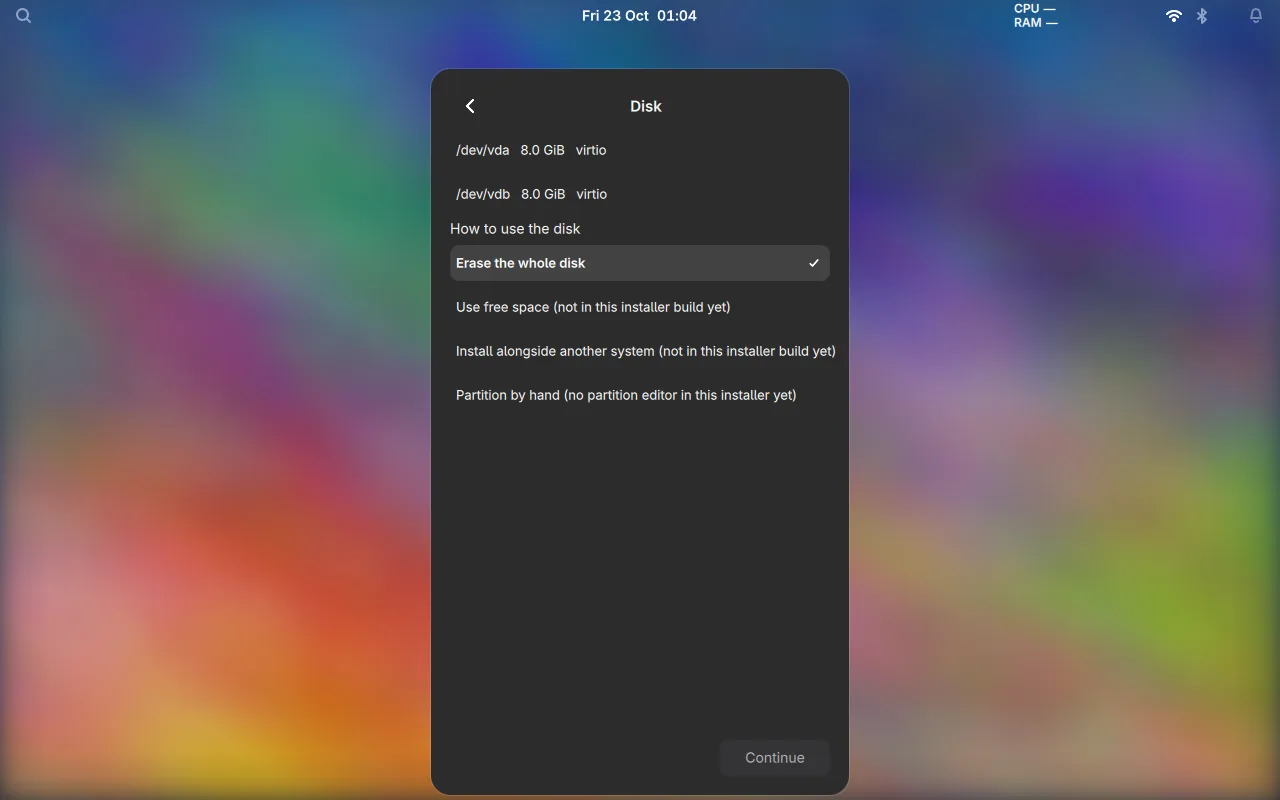
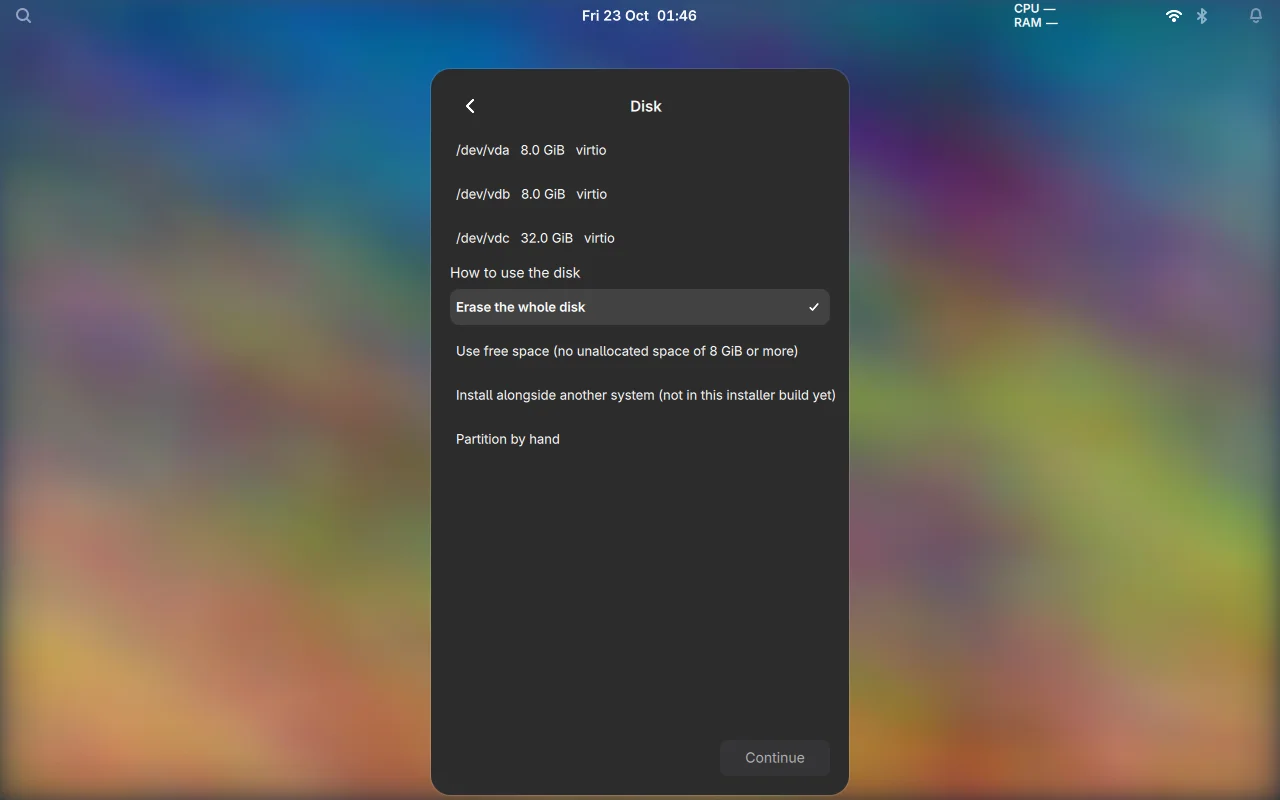
docs: document manual partitioning in the installer
Describe the Partitions page, the Partition by hand disk choice, swap from
the manual list, and the summary's Erase, Format and Install buttons. Refresh
the disk screenshot and add the partitions screenshot from the shots harness.

diff --git a/docs/installer.md b/docs/installer.md
@@ -13,6 +13,7 @@ disk and account values are placeholders.
 - Boot the ISO in UEFI mode. BIOS machines can install too, with the limits
   listed under [firmware](#firmware).
 - Back up anything on the target disk. An erase destroys every partition on it.
+  In manual mode only the partitions marked format are erased.
 - The installed system is copied from the ISO, so the install itself does not
   need a network. A connection enables time sync and later updates.
 
@@ -28,6 +29,7 @@ earlier answer before the install starts.
 | Network | Whether the machine is online. |
 | Timezone | The timezone for the clock. |
 | Disk | The disk, and how to use it. |
+| Partitions | Manual partitioning only: keep, format or create each partition. |
 | Storage | Root file system, swap and encryption. |
 | Account | Your account, an optional root password and automatic login. |
 | Hostname | The machine name. |
@@ -72,14 +74,37 @@ runs from is not offered.
 
 Under **How to use the disk** there are three choices:
 
-- **Erase the whole disk** wipes the disk and creates the Bingux layout. This
-  is the only choice that works in this build. The page warns that everything on
-  the disk will be erased.
+- **Erase the whole disk** wipes the disk and creates the Bingux layout. The
+  page warns that everything on the disk will be erased.
 - **Use free space** and **Install alongside another system** keep the existing
   partitions. The page marks both as *not in this installer build yet*, so they
   cannot be selected. See [dual boot](#dual-boot).
-- **Partition by hand** is greyed out, with the note *no partition editor in this
-  installer yet*.
+- **Partition by hand** lists the disk's partitions and sets what happens to
+  each one. It needs a GPT disk. See [Partitions](#partitions).
+
+### Partitions
+
+![Installer partitions page](images/installer-partitions.webp)
+
+This page appears after the Disk page when you choose **Partition by hand**.
+Each row is one partition that Bingux uses:
+
+- **Role** cycles through the roles for the firmware. UEFI uses an EFI system
+  partition; BIOS uses a BIOS boot partition. Each install also needs a root
+  partition, and home and swap are optional.
+- **Keep (reuse)** leaves the partition and its files as they are. It is offered
+  for the EFI partition (FAT), a BIOS boot partition and home (ext4, btrfs or xfs).
+- **Format** erases the partition and makes a new file system on it. Its data is
+  lost.
+- **Create new** makes a partition from the unallocated space, at the size you
+  type. A new partition needs at least 64 MiB, and root needs at least 1 GiB. A
+  partition that already exists must be kept or formatted, not created.
+- **File system** for home, when it is formatted or created, is ext4, btrfs or xfs.
+- **Remove** drops the row. The partition on the disk is not touched.
+
+**Continue** stays off until the list can be installed: one root partition, one
+EFI system partition (UEFI) or one BIOS boot partition (BIOS), at most one of each
+role, and no partition used twice. A mounted partition cannot be formatted.
 
 ### Storage
 
@@ -96,6 +121,10 @@ Under **How to use the disk** there are three choices:
 | zram | Compressed swap in RAM, with no disk writes. |
 | Swap file | A file `/swapfile` on the root file system. |
 | Swap partition | A separate partition. With encryption it uses a random key on each boot. |
+
+In manual mode the swap partition comes from the Partitions list. A swap row
+makes a swap partition; without one, the **Swap partition** choice falls back to
+no swap.
 
 **Encrypt the system disk (LUKS2).** When it is offered for your firmware, the
 toggle asks for a passphrase and its confirmation. The passphrase is typed at
@@ -126,8 +155,10 @@ on the network and in the terminal.
 ![Installer summary page](images/installer-summary.webp)
 
 The summary lists the disk, layout, file system, swap, encryption, account and
-hostname. The erase is confirmed with the toggle on this page; the install does
-not start until it is on.
+hostname. In manual mode it lists each partition change: created, formatted or
+kept. The button reads **Erase and install** for an erase, **Format and install**
+when the list formats a partition, and **Install** otherwise. The install does
+not start until the confirm toggle on this page is on.
 
 ### Progress
 
@@ -166,8 +197,9 @@ accepts the two keep-existing-partitions modes (`free_space` and `alongside`)
 in a plan file, but the Disk page marks both unavailable in this build, and the
 TODO tracks the remaining work. Resizing a real disk has not been tested. To
 share a disk today, shrink the other system with its own tools first, then
-install with a plan file that uses `manual` partitioning and reuses the existing
-EFI system partition. Test that on a disk you can afford to lose.
+install with **Partition by hand**, or with a plan file that uses `manual`
+partitioning. Keep the existing EFI system partition and create the new
+partitions from the unallocated space. Test that on a disk you can afford to lose.
 
 ## Firmware
 
